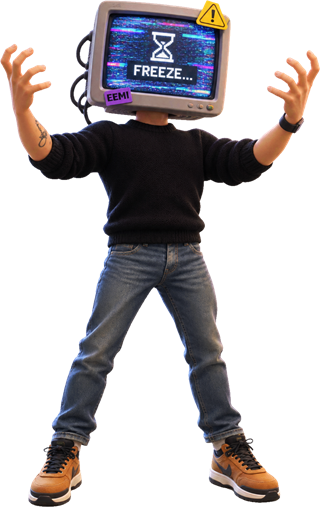
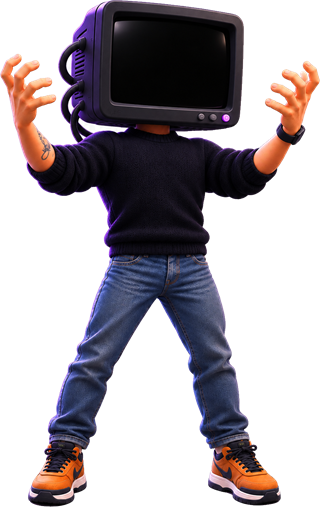
Corrige les textures des plateformes, géant BOSS TV 2 avec messages sur l'écran
- textures : même taille de case sur toutes les faces (plus de rayures sur les côtés),
  virage bleu qui ne chevauche plus la plateforme verte (scintillement)
- géant : image BOSS TV 2 détourée (190 Ko)
- écran de la télé animé : niveau et difficulté, « Rachète des tokens ! », temps,
  chutes et messages de l'univers du jeu, avec balayage et glitch

diff --git a/public/js/geant.js b/public/js/geant.js
@@ -5,13 +5,35 @@
 //  Il se tient dans la ville en contrebas, comme King Kong, et suit
 //  le joueur en marchant à sa gauche. À chaque début de niveau, il arrive
 //  du fond du niveau en déambulant.
+//  Son écran de télé affiche des messages qui changent (voir MESSAGES).
 // =====================================================================
 import * as THREE from 'three';
 
 const HAUTEUR = 70;        // taille en mètres (la boule fait 1 m)
 const Y_SOL = -60;         // le sol de la ville (voir level.js)
 const MOUVEMENT_REDUIT = matchMedia('(prefers-reduced-motion: reduce)');
-const RAPPORT = 320 / 507; // largeur / hauteur de l'image (BOSS TV)
+const RAPPORT = 320 / 507; // largeur / hauteur de l'image (BOSS TV 2)
+// Position de l'écran noir dans l'image (fractions : gauche, haut, droite, bas)
+const ECRAN = { gauche: 0.344, haut: 0.021, droite: 0.738, bas: 0.215 };
+const DUREE_MESSAGE = 3.5; // secondes par message
+
+// Messages de la télé. Chaque ligne reçoit l'état du jeu et renvoie 1 à 3 lignes de texte.
+// Pour en ajouter un : ajoute une ligne ici.
+const NOMS_DIFFICULTE = { facile: 'FACILE', normal: 'NORMAL', difficile: 'DIFFICILE' };
+const MESSAGES = [
+  (j) => ['NIVEAU 1', NOMS_DIFFICULTE[j.difficulte] || 'NORMAL'],
+  () => ['RACHÈTE', 'DES TOKENS !'],
+  (j) => (j.etat === 'jeu' ? ['TON TEMPS', `${j.temps.toFixed(1)} s`] : ['PRÊT ?', 'APPUIE SUR', 'JOUER']),
+  () => ['COURS À 9H', 'DÉPÊCHE-TOI !'],
+  () => ['404', 'MOTIVATION', 'NOT FOUND'],
+  (j) => (j.chutes > 0 ? ['ENCORE', `TOMBÉ ×${j.chutes}`] : ['NE TOMBE', 'PAS !']),
+  () => ['git push', '--force ?'],
+  () => ['CANETTE', '= BOOST ×1.6'],
+  () => ['FOURVIÈRE', 'TE REGARDE'],
+  () => ['BUFFERING', '▓▓▓▓▓░░░ 62%'],
+  () => ['BONJOUR', 'LYON !'],
+  () => ['TOKENS', 'ÉPUISÉS', 'PASSE PRO'],
+];
 const VITESSE_SUIVI = 0.35;
 
 // --- Arrivée en début de niveau ---
@@ -19,7 +41,69 @@ const DISTANCE_DEPART = 120; // il apparaît au fond du niveau, dans la brume…
 const VITESSE_ARRIVEE = 7;   // …et arrive à cette vitesse (m/s), environ 15 s
 const ZIGZAG = 0.6;          // ampleur de la déambulation (angle en radians)
 
-export function createGeant(scene) {
+/**
+ * Écran de la télé : un canvas redessiné quelques fois par seconde
+ * (texte façon vieux moniteur, lignes de balayage, curseur qui clignote,
+ * petit « glitch » à chaque changement de message).
+ */
+function creerEcranTele() {
+  const c = document.createElement('canvas');
+  c.width = 384; c.height = 300;
+  const ctx = c.getContext('2d');
+  const texture = new THREE.CanvasTexture(c);
+  texture.colorSpace = THREE.SRGBColorSpace;
+  const couleurs = ['#7df9ff', '#c792ff', '#ffcc00', '#7dffb5'];
+
+  function dessiner(lignes, couleur, t, glitch) {
+    const l = c.width, h = c.height;
+    ctx.clearRect(0, 0, l, h);
+    // Fond d'écran cathodique (coins arrondis transparents, léger halo au centre)
+    ctx.save();
+    ctx.beginPath(); ctx.roundRect(4, 4, l - 8, h - 8, 34); ctx.clip();
+    const fond = ctx.createRadialGradient(l / 2, h / 2, 10, l / 2, h / 2, l * 0.7);
+    fond.addColorStop(0, '#1a1430'); fond.addColorStop(1, '#05040a');
+    ctx.fillStyle = fond; ctx.fillRect(0, 0, l, h);
+    // En-tête
+    ctx.font = 'bold 20px Consolas, "Courier New", monospace';
+    ctx.textBaseline = 'middle';
+    ctx.fillStyle = 'rgba(255,255,255,0.55)';
+    ctx.textAlign = 'left'; ctx.fillText('BOSS.TV', 26, 30);
+    ctx.textAlign = 'right';
+    ctx.fillStyle = Math.sin(t * 4) > 0 ? '#ff4757' : 'rgba(255,71,87,0.3)';
+    ctx.fillText('● LIVE', l - 26, 30);
+    // Texte principal : taille ajustée pour tenir dans l'écran
+    ctx.textAlign = 'center';
+    let taille = lignes.length > 2 ? 52 : 62;
+    ctx.font = `bold ${taille}px Consolas, "Courier New", monospace`;
+    while (taille > 24 && Math.max(...lignes.map((x) => ctx.measureText(x).width)) > l - 50) {
+      taille -= 2;
+      ctx.font = `bold ${taille}px Consolas, "Courier New", monospace`;
+    }
+    const pas = taille * 1.12;
+    const y0 = h / 2 + 14 - ((lignes.length - 1) * pas) / 2;
+    const decalage = glitch ? 6 : 0;
+    lignes.forEach((ligne, i) => {
+      const y = y0 + i * pas;
+      const texte = i === lignes.length - 1 && Math.sin(t * 6) > 0 ? ligne + '_' : ligne;
+      if (glitch) { // séparation rouge / bleu façon signal brouillé
+        ctx.fillStyle = 'rgba(255,40,80,0.7)'; ctx.fillText(texte, l / 2 - decalage, y);
+        ctx.fillStyle = 'rgba(40,160,255,0.7)'; ctx.fillText(texte, l / 2 + decalage, y);
+      }
+      ctx.shadowColor = couleur; ctx.shadowBlur = 18;
+      ctx.fillStyle = couleur; ctx.fillText(texte, l / 2, y);
+      ctx.shadowBlur = 0;
+    });
+    // Lignes de balayage
+    ctx.fillStyle = 'rgba(0,0,0,0.28)';
+    for (let y = 0; y < h; y += 4) ctx.fillRect(0, y, l, 2);
+    ctx.restore();
+    texture.needsUpdate = true;
+  }
+
+  return { texture, dessiner, couleurs };
+}
+
+export function createGeant(scene, lireEtatJeu = () => ({ difficulte: 'normal', temps: 0, chutes: 0, etat: 'titre' })) {
   const texture = new THREE.TextureLoader().load('assets/geant-boss.png');
   texture.colorSpace = THREE.SRGBColorSpace;
 
@@ -30,6 +114,25 @@ export function createGeant(scene) {
     geometrie,
     new THREE.MeshBasicMaterial({ map: texture, alphaTest: 0.2, side: THREE.DoubleSide }),
   );
+  // Écran de la télé : un plan posé juste devant l'écran noir de l'image
+  const tele = creerEcranTele();
+  const largeurImage = HAUTEUR * RAPPORT;
+  const marge = 0.04; // reste à l'intérieur du cadre de la télé
+  const ecran = new THREE.Mesh(
+    new THREE.PlaneGeometry(
+      largeurImage * (ECRAN.droite - ECRAN.gauche) * (1 - marge * 2),
+      HAUTEUR * (ECRAN.bas - ECRAN.haut) * (1 - marge * 2),
+    ),
+    new THREE.MeshBasicMaterial({ map: tele.texture, transparent: true, toneMapped: false }),
+  );
+  ecran.position.set(
+    largeurImage * ((ECRAN.gauche + ECRAN.droite) / 2 - 0.5),
+    HAUTEUR * (1 - (ECRAN.haut + ECRAN.bas) / 2),
+    0.3,
+  );
+  image.add(ecran); // l'écran suit le balancement du géant
+  let indexMessage = 0, debutMessage = 0, prochainDessin = 0;
+
   const geant = new THREE.Group(); // le groupe se tourne vers la caméra, l'image se balance dedans
   geant.add(image);
   geant.position.set(-20, Y_SOL, -35);
@@ -52,6 +155,8 @@ export function createGeant(scene) {
         posBoule.z + avZ * DISTANCE_DEPART + gaZ * 26,
       );
       enArrivee = true;
+      indexMessage = 0; // au départ, la télé annonce le niveau et la difficulté
+      debutMessage = -Infinity;
     },
 
     /**
@@ -94,6 +199,19 @@ export function createGeant(scene) {
       image.rotation.z = calme ? 0 : Math.sin(t * 0.7) * 0.025 + marche;
       image.position.y = calme ? 0 : Math.abs(Math.sin(pas)) * 1.5;
       image.scale.y = 1 + Math.sin(t * 1.4) * 0.008;
+
+      // Télé : message suivant toutes les DUREE_MESSAGE secondes, redessin ~8 fois par seconde
+      if (debutMessage === -Infinity) debutMessage = t;
+      if (t - debutMessage > DUREE_MESSAGE) {
+        indexMessage = (indexMessage + 1) % MESSAGES.length;
+        debutMessage = t;
+      }
+      if (t >= prochainDessin) {
+        prochainDessin = t + 0.125;
+        const lignes = MESSAGES[indexMessage](lireEtatJeu());
+        const glitch = !calme && t - debutMessage < 0.25;
+        tele.dessiner(lignes, tele.couleurs[indexMessage % tele.couleurs.length], t, glitch);
+      }
     },
   };
 }

diff --git a/public/js/level.js b/public/js/level.js
@@ -55,13 +55,27 @@ function textureTexte(lignes, fond, couleur, l = 512, h = 256) {
 export function buildLevel(scene, world, solMat) {
   const grille = textureGrille();
 
+  /**
+   * Boîte dont la texture garde la même taille sur toutes les faces (1 case = 2 m).
+   * Avant, chaque face reprenait la répétition du dessus : sur les côtés fins
+   * (1 m de haut), le quadrillage était écrasé en fines rayures.
+   */
+  function geometrieBoite([l, h, p]) {
+    const geo = new THREE.BoxGeometry(l, h, p);
+    const uv = geo.attributes.uv;
+    // Ordre des faces de BoxGeometry : +x, -x, +y, -y, +z, -z (4 sommets chacune)
+    const tailles = [[p, h], [p, h], [l, p], [l, p], [l, h], [l, h]];
+    tailles.forEach(([u, v], face) => {
+      for (let i = face * 4; i < face * 4 + 4; i++) uv.setXY(i, uv.getX(i) * u / 2, uv.getY(i) * v / 2);
+    });
+    uv.needsUpdate = true;
+    return geo;
+  }
+
   /** Boîte à la fois visible (Three.js) et solide (cannon-es). */
   function addBox(centre, taille, quat, couleur, options = {}) {
-    const tex = grille.clone();
-    tex.needsUpdate = true;
-    tex.repeat.set(Math.max(1, taille[0] / 2), Math.max(1, taille[2] / 2));
-    const mat = options.materiau || new THREE.MeshStandardMaterial({ color: couleur, map: tex, roughness: 0.85 });
-    const mesh = new THREE.Mesh(new THREE.BoxGeometry(...taille), mat);
+    const mat = options.materiau || new THREE.MeshStandardMaterial({ color: couleur, map: grille, roughness: 0.85 });
+    const mesh = new THREE.Mesh(geometrieBoite(taille), mat);
     mesh.position.copy(centre);
     mesh.quaternion.copy(quat);
     mesh.castShadow = true;
@@ -142,7 +156,8 @@ export function buildLevel(scene, world, solMat) {
   slab([0, 2, -50.5], [0, 2, -62], 9, vert);
 
   // 8. Virage à droite avec rebords
-  slab([3, 2, -59], [20, 2, -59], 5, bleu);
+  // Commence au bord de la réception (x = 4.5) : deux dessus superposés au même niveau scintillaient
+  slab([4.5, 2, -59], [20, 2, -59], 5, bleu);
   mur([13, 2.35, -56.75], [14, 0.7, 0.5]);
   mur([13, 2.35, -61.25], [14, 0.7, 0.5]);
 

diff --git a/public/js/main.js b/public/js/main.js
@@ -93,7 +93,13 @@ const game = {
   },
 };
 const bonus = createBonuses(scene, niveau.bonus, game);
-const geant = createGeant(scene);
+// Le géant BOSS TV affiche l'état de la partie sur son écran
+const geant = createGeant(scene, () => ({
+  difficulte: difficulteActuelle() || 'normal',
+  temps: game.temps,
+  chutes: game.chutes,
+  etat: game.etat,
+}));
 
 physique.boule.addEventListener('collide', (e) => {
   if (game.etat === 'jeu') {
